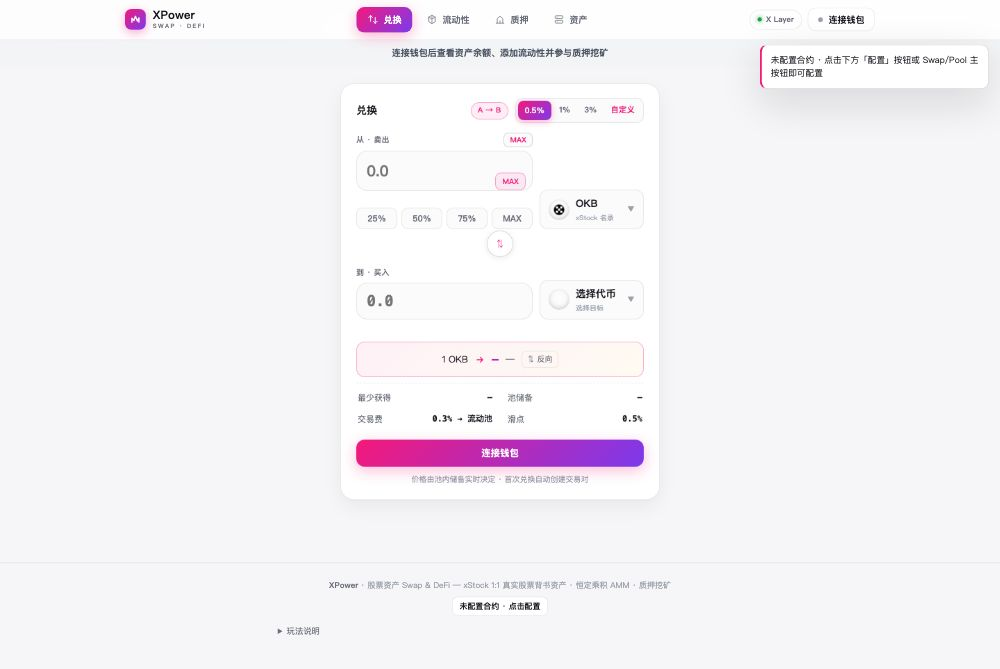
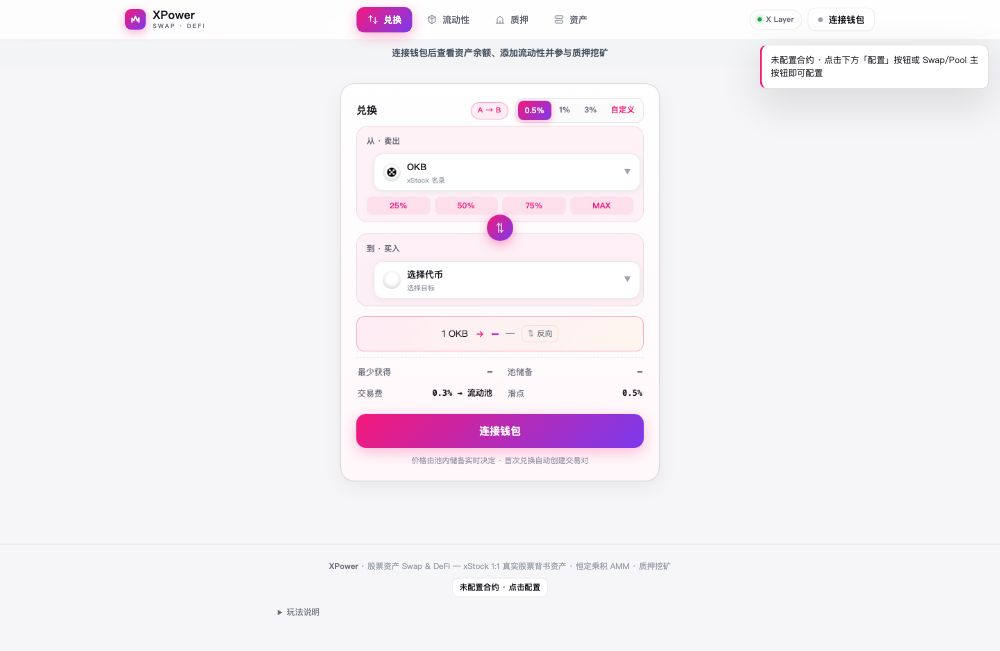
兑换页专业视觉v3：一体化输入区/悬浮渐变交换按钮/浅粉底卡片/大号CTA/去重MAX

diff --git a/XPower Swap DApp.html b/XPower Swap DApp.html
@@ -278,6 +278,30 @@ input[type=text]:focus,input[type=number]:focus,select:focus,textarea:focus{outl
 .seg div{padding:4px 9px;border-radius:8px;font-size:11.5px;font-weight:800;color:var(--dim);cursor:pointer;transition:.15s}
 .seg div:hover{color:var(--acc)}
 .seg div.on{background:var(--acc-grad);color:#fff;box-shadow:0 3px 10px rgba(245,25,123,.3)}
+/* ===== 兑换页专业视觉 v3 ===== */
+.swap-card{overflow:hidden;border:1px solid var(--line2);border-radius:20px;background:linear-gradient(180deg,#fff 0%,#fff8fb 100%);box-shadow:var(--shadow)}
+.amt-in{background:rgba(245,25,123,.05);border:1px solid var(--line);border-radius:16px;padding:12px 14px 10px;display:grid;gap:8px;transition:border-color .18s,box-shadow .18s}
+.amt-in:focus-within{border-color:var(--acc-line);box-shadow:0 0 0 3px rgba(245,25,123,.09)}
+.amt-head{display:flex;justify-content:space-between;align-items:center;font-size:11.5px;color:var(--dim);font-weight:700}
+.amt-head .bal{color:var(--faint);font-weight:600;font-size:11px}
+.amt-body{display:flex;align-items:center;gap:10px}
+.amt-body input{flex:1;min-width:0;border:none!important;background:transparent;font-size:22px!important;font-weight:900;font-family:var(--mono);outline:none;color:var(--fg);letter-spacing:-.5px;padding:0}
+.amt-body .tokbtn{flex-shrink:0;border:1px solid var(--line);background:var(--card);border-radius:14px;padding:7px 12px;box-shadow:0 2px 8px rgba(20,20,43,.06);min-width:118px}
+.amt-body .tokbtn:hover{border-color:var(--acc-line)}
+.amt-body .tokbtn .lg{width:26px;height:26px;font-size:11px}
+.amt-body .tokbtn .nm2{font-size:13px;font-weight:800}
+.amt-body .tokbtn .sub2{font-size:10px}
+.pct-row{display:flex;gap:6px}
+.pct-row button{flex:1;padding:5px 0;border-radius:8px;border:none;background:rgba(245,25,123,.08);color:var(--acc);font-size:11.5px;font-weight:800;cursor:pointer;transition:.15s}
+.pct-row button:hover{background:var(--acc-grad);color:#fff;box-shadow:0 3px 10px rgba(245,25,123,.3)}
+.arrow-mid{display:flex;justify-content:center;margin:-11px 0;position:relative;z-index:2}
+.arrow-mid button{width:38px;height:38px;border-radius:50%;border:none;background:var(--acc-grad);color:#fff;font-size:16px;cursor:pointer;box-shadow:0 5px 16px rgba(245,25,123,.4);display:flex;align-items:center;justify-content:center;transition:transform .3s cubic-bezier(.2,.8,.3,1)}
+.arrow-mid button:hover{transform:scale(1.08)}
+.arrow-mid button.flip{transform:rotate(180deg)}
+.swap-cta{margin-top:14px;padding:14px!important;font-size:15px!important;font-weight:800;border-radius:14px!important;box-shadow:0 8px 22px rgba(245,25,123,.32);transition:.18s}
+.swap-cta:hover{transform:translateY(-1px);box-shadow:0 12px 28px rgba(245,25,123,.42)}
+#outAmt{color:var(--acc)!important}
+#outAmt.grad{background:var(--acc-grad);-webkit-background-clip:text;background-clip:text;color:transparent!important}
 </style>
 </head>
 <body>
@@ -315,30 +339,27 @@ input[type=text]:focus,input[type=number]:focus,select:focus,textarea:focus{outl
             <div id="slipCustom" style="display:none;align-items:center;gap:8px;margin-top:8px"><input id="slipInput" type="number" step="0.1" min="0.01" max="10" placeholder="0.01–10" style="flex:1;min-width:0;font-family:var(--mono)"><button class="btn sm" onclick="applySlip()">应用</button></div>
           </div>
         </div>
-        <div class="swap-row">
-          <div class="amt">
-            <label style="display:flex;justify-content:space-between;align-items:center;width:100%">从 · 卖出 <button type="button" class="mini-btn" onclick="swapPct(100)">MAX</button></label>
+        <div class="amt-in">
+          <div class="amt-head"><span>从 · 卖出</span><span class="bal" id="fromBal"></span></div>
+          <div class="amt-body">
             <input id="inAmt" type="number" value="" min="0" placeholder="0.0" oninput="dqSwap()" onkeydown="if(event.key==='Enter')swapCta()">
-            <div class="balrow" id="fromBal"></div>
-            <div style="display:flex;gap:6px;margin-top:6px">
-              <button type="button" class="pct-btn" onclick="swapPct(25)">25%</button>
-              <button type="button" class="pct-btn" onclick="swapPct(50)">50%</button>
-              <button type="button" class="pct-btn" onclick="swapPct(75)">75%</button>
-              <button type="button" class="pct-btn" onclick="swapPct(100)">MAX</button>
-            </div>
-            <button class="maxbtn" onclick="setMax()">MAX</button>
+            <div class="tokbtn" id="fromBtn" onclick="pickToken('from')"><span class="lg" id="fromLg">?</span><span><span class="nm2" id="fromNm">选择代币</span><span class="sub2" id="fromSub">xStock 名录</span></span><span class="caret">▼</span></div>
           </div>
-          <div class="tokbtn" id="fromBtn" onclick="pickToken('from')"><span class="lg" id="fromLg">?</span><span><span class="nm2" id="fromNm">选择代币</span><span class="sub2" id="fromSub">xStock 名录</span></span><span class="caret">▼</span></div>
+          <div class="pct-row">
+            <button type="button" onclick="swapPct(25)">25%</button>
+            <button type="button" onclick="swapPct(50)">50%</button>
+            <button type="button" onclick="swapPct(75)">75%</button>
+            <button type="button" onclick="swapPct(100)">MAX</button>
+          </div>
         </div>
         <div class="arrow-mid"><button onclick="flipSwap()" title="交换方向">⇅</button></div>
-        <div class="swap-row">
-          <div class="amt">
-            <label>到 · 买入</label>
+        <div class="amt-in">
+          <div class="amt-head"><span>到 · 买入</span><span class="bal" id="toBal"></span></div>
+          <div class="amt-body">
             <input id="outAmt" type="text" readonly placeholder="0.0">
+            <div class="tokbtn" id="toBtn" onclick="pickToken('to')"><span class="lg" id="toLg">?</span><span><span class="nm2" id="toNm">选择代币</span><span class="sub2" id="toSub">选择目标</span></span><span class="caret">▼</span></div>
           </div>
-          <div class="tokbtn" id="toBtn" onclick="pickToken('to')"><span class="lg" id="toLg">?</span><span><span class="nm2" id="toNm">选择代币</span><span class="sub2" id="toSub">选择目标</span></span><span class="caret">▼</span></div>
         </div>
-        <div class="balrow" id="toBal"></div>
         <div class="pricebar"><span>1 <span id="rFrom">—</span></span><svg width="14" height="14" viewBox="0 0 24 24" fill="none" stroke="currentColor" stroke-width="2.2" stroke-linecap="round" stroke-linejoin="round" style="color:var(--acc)"><path d="M5 12h14M13 6l6 6-6 6"/></svg><b id="rateBig">—</b><span id="rTo" style="color:var(--dim)">—</span><span class="pflip" onclick="flipSwap()">⇅ 反向</span></div>
         <div class="info-grid">
           <div class="info-row"><span>最少获得</span><b id="minTxt" style="font-family:var(--mono)">—</b></div>
@@ -348,7 +369,7 @@ input[type=text]:focus,input[type=number]:focus,select:focus,textarea:focus{outl
         </div>
         <span id="rateTxt" style="display:none">—</span>
         <div id="swapErr" class="errbox"></div>
-        <button class="btn primary wide" id="btnSwap" style="margin-top:14px" onclick="swapCta()">兑换</button>
+        <button class="btn primary wide swap-cta" id="btnSwap" onclick="swapCta()">兑换</button>
         <div style="text-align:center;font-size:11px;color:var(--faint);margin-top:10px">价格由池内储备实时决定 · 首次兑换自动创建交易对</div>
       </div>
       </section>
